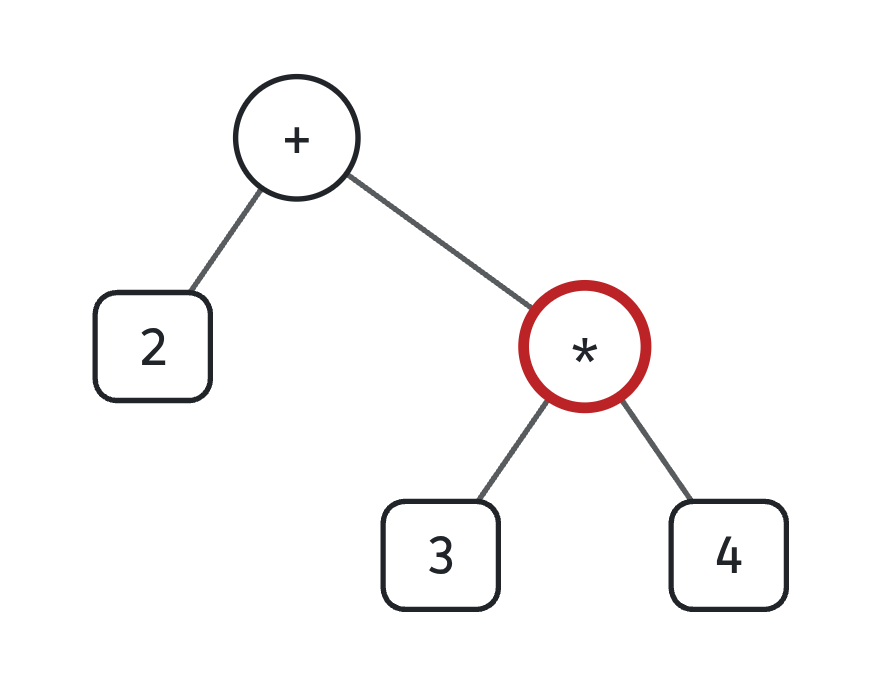
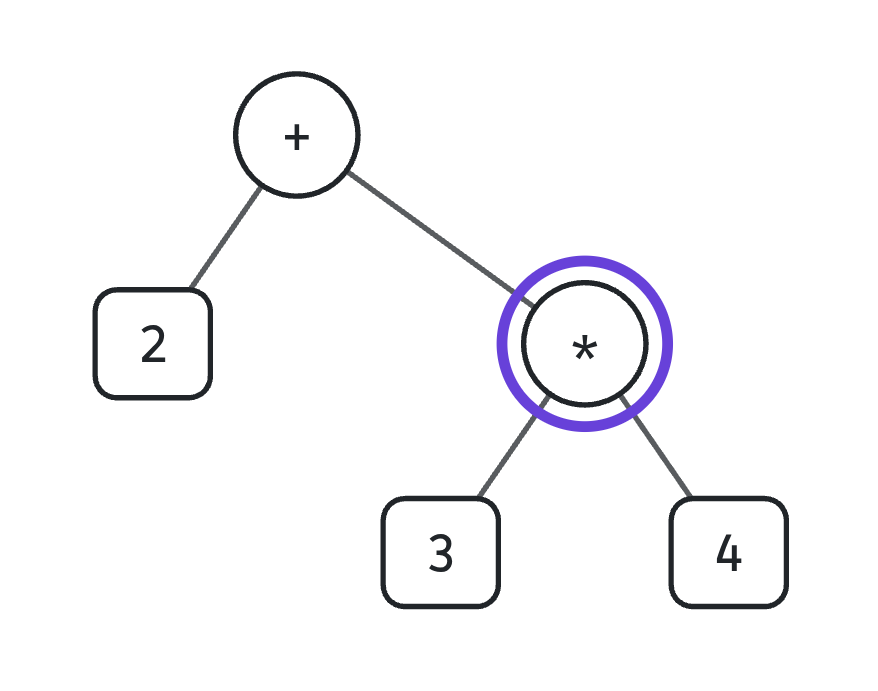
Calculator on the shared motion layer: the computed node's numbers rise into it and merge, its round box turns into the result's box, back they come out again; the purple ring for the next node, the tree picture rendered again. Motion: a short arrow does not bend (the head of an index arrow no longe

diff --git a/src/static/include/stepper_motion.js b/src/static/include/stepper_motion.js
@@ -164,7 +164,8 @@
             for (const node of old.values()) {
                 if (kept.has(node)) continue;
                 const to = node.dataset.to && goal.get(node.dataset.to);
-                if (to) for (const [name, value] of Object.entries(to)) if (node.hasAttribute(name) && name !== 'opacity') move(node, name, node.getAttribute(name), value);
+                // only what can move: it keeps its own key and class
+                if (to) for (const [name, value] of Object.entries(to)) if (node.hasAttribute(name) && name !== 'opacity' && movable(name)) move(node, name, node.getAttribute(name), value);
                 // data-merge: it goes into the element it moves to, which
                 // covers it; it does not fade (two half-transparent shapes on
                 // top of each other), it is removed at the end
@@ -231,7 +232,10 @@
             // view) stays straight
             r.start = r.start || { base, tip };
             const apart = Math.hypot(base[0] - r.start.base[0] - (tip[0] - r.start.tip[0]), base[1] - r.start.base[1] - (tip[1] - r.start.tip[1]));
-            const k = Math.min(1, apart / 24);
+            // and only as far as the line is long: a short arrow (an index
+            // under its column) has no room for a bend, its head would tilt
+            const length = Math.hypot(tip[0] - base[0], tip[1] - base[1]);
+            const k = Math.min(1, apart / 24) * Math.min(1, Math.max(0, (length - 40) / 80));
             const bend = last ? mid : [mid[0] + (earlier.mid[0] - mid[0]) * k, mid[1] + (earlier.mid[1] - mid[1]) * k];
             // data-inset: the line stops that far before its end (an arrowhead
             // on the border of a node), and is hidden while shorter than that
@@ -301,6 +305,7 @@
                     snap = part(u, 0.8, 1);
                 } else if (kind === 'cut') {
                     const target = centre(from[1]);
+                    if (!target) continue;
                     tip = u < 0.15 ? toward(base, target, 1 - (1 - NEAR) * out(part(u, 0, 0.15))) : toward(base, target, NEAR * (1 - part(u, 0.15, 0.75) ** 2));
                 } else if (kind === 'swing') {
                     const before = centre(from[1]);
@@ -344,6 +349,7 @@
                 const c = centre(node.dataset.follow);
                 if (!c) continue;
                 if (node.hasAttribute('cx')) { node.setAttribute('cx', round(c[0])); node.setAttribute('cy', round(c[1])); }
+                else if (node.tagName === 'text') { node.setAttribute('x', round(c[0])); node.setAttribute('y', round(c[1])); }
             }
             attach(Math.min(1, t), now);
             for (const node of pulses) {

diff --git a/src/content/calculator/calculator.md b/src/content/calculator/calculator.md
@@ -43,21 +43,28 @@ requires: [automata]
         display: block;
         margin: 0 auto;
     }
-    .calc-tree line {
+    .calc-stepper {
+        --calc-accent: #6741d9;
+    }
+    html[data-bs-theme="dark"] .calc-stepper {
+        --calc-accent: #b197fc;
+    }
+    .calc-tree path.edge {
+        fill: none;
         stroke: var(--bs-secondary-color);
         stroke-width: 1.5;
     }
-    .calc-tree .node circle, .calc-tree .node rect {
+    .calc-tree rect.op, .calc-tree rect.num {
         fill: var(--bs-body-bg);
         stroke: var(--bs-body-color);
         stroke-width: 1.5;
-        transition: stroke 0.3s;
     }
-    .calc-tree .node.pick circle {
-        stroke: #bc2326;
+    .calc-tree circle.pick {
+        fill: none;
+        stroke: var(--calc-accent);
         stroke-width: 3;
     }
-    .calc-tree .node.fresh rect {
+    .calc-tree rect.num.fresh {
         stroke: #2e9e5b;
         stroke-width: 3;
     }
@@ -110,7 +117,7 @@ sleep: 1
 crop-element: #calc-stepper .calc-tree svg
 variants: dark
 -->
-<img class='drawing' style='width: 18em' src='baum.webp' alt='Ein Baum: oben ein Kreis mit +, darunter links das Blatt 2 und rechts ein Kreis mit *, unter dem die Blätter 3 und 4 hängen. Der Kreis mit * ist rot umrandet.'>
+<img class='drawing' style='width: 18em' src='baum.webp' alt='Ein Baum: oben ein Kreis mit +, darunter links das Blatt 2 und rechts ein Kreis mit *, unter dem die Blätter 3 und 4 hängen. Der Kreis mit * ist lila umrandet.'>
 
 ## Einrichten
 
@@ -273,7 +280,7 @@ Den Ausdruck `2 + 3 * 4` schreibt der Rechner als Baum, in dem das, was zuerst g
 
 Jeder Knoten ist entweder eine Zahl, ein **Blatt**, oder eine Liste aus dem Rechenzeichen und den beiden Teilbäumen links und rechts. Ein Minus vor einer Zahl oder einer Klammer ist ein Vorzeichen mit nur einem Teilbaum: `-(1 + 2)` ist `["neg", ["+", 1, 2]]`. Klammern tauchen im Baum gar nicht mehr auf, sie stecken in seiner Form: `(2 + 3) * 4` ist `["*", ["+", 2, 3], 4]`.
 
-Probier es aus. Der Baum steht so, dass du den Ausdruck von links nach rechts lesen kannst. Mit den Pfeilen rechnest du ihn aus, einen Knoten nach dem anderen. Rot umrandet ist der Knoten, der als Nächstes drankommt: immer einer, unter dem nur noch Zahlen hängen.
+Probier es aus. Der Baum steht so, dass du den Ausdruck von links nach rechts lesen kannst. Mit den Pfeilen rechnest du ihn aus, einen Knoten nach dem anderen. Lila umrandet ist der Knoten, der als Nächstes drankommt: immer einer, unter dem nur noch Zahlen hängen.
 
 <div class='calc-stepper' id='calc-stepper' data-stepper>
 <input class='form-control' type='text' id='calc-input' value='2 + 3 * (4 - 1)' aria-label='Ausdruck für den Baum' spellcheck='false' maxlength='60'>
@@ -702,117 +709,84 @@ python3 -c 'import ast; print(ast.dump(ast.parse("2 + 3 * 4", mode="eval"), inde
     let current = 0;
     let svg = null;
 
-    // How far from its centre a node's outline is, in the direction ux, uy:
-    // a circle for an operator, a box for a number.
-    function reach(t, ux, uy) {
-        if (!isLeaf(t)) return 17;
-        const hw = width(t) / 2 - 4, hh = 15;
-        return Math.min(ux ? hw / Math.abs(ux) : Infinity, uy ? hh / Math.abs(uy) : Infinity);
-    }
-
-    // A picture of the tree: every node with its place and how visible it
-    // is, and the edges as pairs of ids.
-    function frameOf(tree) {
+    // One step drawn into an SVG that is never shown; the visible one moves
+    // to it (stepper_motion.js). An operator is a round box, a number a box,
+    // each keyed by its node, the edges lines from centre to centre under
+    // them. The node that comes next wears the purple ring, which glides
+    // from node to node; the number just computed has a green box.
+    const make = (tag, attrs, text) => {
+        const node = document.createElementNS(SVG, tag);
+        for (const [k, v] of Object.entries(attrs)) node.setAttribute(k, v);
+        if (text !== undefined) node.textContent = text;
+        return node;
+    };
+    function picture(tree, marks) {
+        const next = make('svg', {});
         const { pos } = layout(tree);
-        const nodes = new Map();
-        const edges = [];
-        (function walk(t) {
-            const p = pos.get(t.id);
-            nodes.set(t.id, { x: p.x, y: p.y, node: t, alpha: 1 });
+        (function edges(t) {
             if (isLeaf(t)) return;
-            t.kids.forEach((kid) => { edges.push([t.id, kid.id]); walk(kid); });
+            const p = pos.get(t.id);
+            t.kids.forEach((kid) => {
+                const q = pos.get(kid.id);
+                next.appendChild(make('path', { 'data-key': `edge-${t.id}-${kid.id}`, 'data-ends': `node-${t.id} node-${kid.id}`, class: 'edge', d: `M${p.x} ${p.y} L${q.x} ${q.y}` }));
+                edges(kid);
+            });
         })(tree);
-        return { nodes, edges };
-    }
-
-    function outline(t) {
-        if (!isLeaf(t)) return `<circle r='17'/>`;
-        const w = width(t);
-        return `<rect x='${-w / 2 + 4}' y='-15' width='${w - 8}' height='30' rx='6'/>`;
-    }
-
-    // Draws one frame whole: the edges from centre to centre, cut off where
-    // each shape ends, then the nodes over them.
-    function paint(frame, marks) {
-        const parts = [];
-        for (const [a, b] of frame.edges) {
-            const p = frame.nodes.get(a), q = frame.nodes.get(b);
-            if (!p || !q) continue;
-            const dx = q.x - p.x, dy = q.y - p.y, len = Math.hypot(dx, dy);
-            if (len < 1) continue;
-            const ux = dx / len, uy = dy / len;
-            const from = reach(p.node, ux, uy), to = reach(q.node, ux, uy);
-            if (from + to >= len) continue;
-            const f = (v) => v.toFixed(1);
-            parts.push(`<line x1='${f(p.x + ux * from)}' y1='${f(p.y + uy * from)}' x2='${f(q.x - ux * to)}' y2='${f(q.y - uy * to)}' opacity='${Math.min(p.alpha, q.alpha).toFixed(2)}'/>`);
-        }
-        frame.nodes.forEach((p, id) => {
-            const cls = ['node', marks.pick === id ? 'pick' : '', marks.fresh === id ? 'fresh' : ''].filter(Boolean).join(' ');
-            parts.push(`<g class='${cls}' transform='translate(${p.x.toFixed(1)} ${p.y.toFixed(1)})' opacity='${p.alpha.toFixed(2)}'>${outline(p.node)}<text>${label(p.node)}</text></g>`);
-        });
-        svg.innerHTML = parts.join('');
-    }
-
-    // From one picture to the next, the nodes glide to their new places and
-    // the edges go with them. What is computed away slides into the node it
-    // becomes and fades; going back, it comes out of that node again.
-    // Without motion (prefers-reduced-motion), the next picture just
-    // replaces the last.
-    const reduceMotion = window.matchMedia('(prefers-reduced-motion: reduce)');
-    const DURATION = 450;
-    let shown = null;
-    let animation = 0;
-
-    function parents(frame) {
-        const up = new Map();
-        frame.edges.forEach(([a, b]) => up.set(b, a));
-        return up;
-    }
-
-    // Where a node that only one of the two pictures has comes from or goes
-    // to: the nearest node above it that the other picture has.
-    function anchor(id, up, other) {
-        let k = up.get(id);
-        while (k !== undefined && !other.nodes.has(k)) k = up.get(k);
-        return k !== undefined ? other.nodes.get(k) : null;
-    }
-
-    function showFrame(target, marks) {
-        cancelAnimationFrame(animation);
-        const from = shown;
-        shown = target;
-        if (!from || reduceMotion.matches) { paint(target, marks); return; }
-        const upFrom = parents(from), upTo = parents(target);
-        const seen = new Set();
-        const edges = from.edges.concat(target.edges).filter(([a, b]) => !seen.has(a + '>' + b) && seen.add(a + '>' + b));
-        const begin = performance.now();
-        const frame = () => {
-            const t = Math.min(1, (performance.now() - begin) / DURATION);
-            const e = t < 0.5 ? 2 * t * t : 1 - Math.pow(-2 * t + 2, 2) / 2;
-            const nodes = new Map();
-            target.nodes.forEach((p, id) => {
-                const q = from.nodes.get(id) || anchor(id, upTo, from) || p;
-                const node = from.nodes.has(id) && e < 0.5 ? from.nodes.get(id).node : p.node;
-                nodes.set(id, { x: q.x + (p.x - q.x) * e, y: q.y + (p.y - q.y) * e, node, alpha: from.nodes.has(id) ? 1 : e });
-            });
-            from.nodes.forEach((q, id) => {
-                if (target.nodes.has(id)) return;
-                const p = anchor(id, upFrom, target) || q;
-                nodes.set(id, { x: q.x + (p.x - q.x) * e, y: q.y + (p.y - q.y) * e, node: q.node, alpha: 1 - e });
-            });
-            if (t < 1) {
-                paint({ nodes, edges }, {});
-                animation = requestAnimationFrame(frame);
-            } else {
-                paint(target, marks);
+        (function nodes(t) {
+            const p = pos.get(t.id);
+            if (isLeaf(t)) {
+                const w = width(t) - 8;
+                next.appendChild(make('rect', { 'data-key': `node-${t.id}`, 'data-grow': '', class: marks.fresh === t.id ? 'num fresh' : 'num', x: p.x - w / 2, y: p.y - 15, width: w, height: 30, rx: 6 }));
+                // a label that comes or goes sits on its box while it moves
+                next.appendChild(make('text', { 'data-key': `num-${t.id}`, 'data-grow': '', 'data-follow': `node-${t.id}`, x: p.x, y: p.y }, label(t)));
+                return;
             }
-        };
-        animation = requestAnimationFrame(frame);
+            // a round box: the same element as the number it becomes, so
+            // that the operator turns into its result
+            next.appendChild(make('rect', { 'data-key': `node-${t.id}`, 'data-grow': '', class: 'op', x: p.x - 17, y: p.y - 17, width: 34, height: 34, rx: 17 }));
+            next.appendChild(make('text', { 'data-key': `op-${t.id}`, 'data-grow': '', 'data-follow': `node-${t.id}`, x: p.x, y: p.y }, label(t)));
+            t.kids.forEach(nodes);
+        })(tree);
+        if (marks.pick !== null) {
+            const p = pos.get(marks.pick);
+            next.appendChild(make('circle', { 'data-key': 'pick', 'data-follow': `node-${marks.pick}`, class: 'pick', cx: p.x, cy: p.y, r: 23 }));
+        }
+        return next;
+    }
+
+    // From one step to the next: forward, the numbers under the node that is
+    // computed rise into it and merge into the result, which takes the
+    // operator's place; the edges shrink back into it. Back, the numbers
+    // come out of the result again. The rest glides to its new place.
+    let shownAt = null;
+    function showStep(index) {
+        const step = steps[index];
+        const next = picture(step.tree, { pick: step.pick ? step.pick.id : null, fresh: step.done ? step.done.pick.id : null });
+        const animate = shownAt !== null && Math.abs(index - shownAt) === 1;
+        for (const node of svg.querySelectorAll('[data-to]')) { node.removeAttribute('data-to'); node.removeAttribute('data-merge'); }
+        if (animate && index > shownAt && steps[shownAt].pick) {
+            const pick = steps[shownAt].pick;
+            for (const kid of pick.kids) {
+                const box = svg.querySelector(`[data-key="node-${kid.id}"]`);
+                const text = svg.querySelector(`[data-key="num-${kid.id}"]`);
+                if (box) { box.dataset.to = `node-${pick.id}`; box.dataset.merge = ''; }
+                if (text) { text.dataset.to = `num-${pick.id}`; text.dataset.merge = ''; }
+            }
+        }
+        if (animate && index < shownAt && step.pick) {
+            for (const kid of step.pick.kids) {
+                next.querySelector(`[data-key="node-${kid.id}"]`).dataset.from = `node-${step.pick.id}`;
+                next.querySelector(`[data-key="num-${kid.id}"]`).dataset.from = `num-${step.pick.id}`;
+            }
+        }
+        shownAt = index;
+        if (window.StepperMotion) window.StepperMotion.morph(svg, next, { duration: animate ? 550 : 0 });
+        else svg.replaceChildren(...next.childNodes);
     }
 
     function draw() {
         const step = steps[current];
-        showFrame(frameOf(step.tree), { pick: step.pick ? step.pick.id : null, fresh: step.done ? step.done.pick.id : null });
+        showStep(current);
 
         const parts = [];
         if (step.done) parts.push(`<code>${phrase(step.done.pick.op, step.done.values, step.done.value)}</code>.`);
@@ -835,8 +809,7 @@ python3 -c 'import ast; print(ast.dump(ast.parse("2 + 3 * 4", mode="eval"), inde
     }
 
     function refresh() {
-        cancelAnimationFrame(animation);
-        shown = null;
+        shownAt = null;   // a new expression: no motion from the old tree
         box.replaceChildren();
         try {
             steps = build(input.value);

diff --git a/docs/widgets.md b/docs/widgets.md
@@ -197,6 +197,14 @@ only to look nice.
   two it joins; it grows in with its weight first, its edges sprout and snap
   onto the two roots, then the lower tree rises to meet it. The two
   lightest trees wear the purple ring.
+- **The calculator** (`calculator.md`): an operator is a round box, a number
+  a box; when a node is computed, its numbers rise into it and merge, and
+  the round box turns into the result's box; back, they come out of it
+  again. The node that comes next wears the purple ring.
+- **A short arrow does not bend**: the rubber band of a moving arrow grows
+  with its length (none under 40 px), so the head of an index arrow never
+  tilts. A label that comes or goes follows its node (`data-follow` on a
+  text), and what merges into an element keeps its own key.
 - **What grows comes first**: in a step that also sprouts a pointer, an
   element that grows in does so at the start (`early` in
   `stepper_motion.js`), so that its pointers sprout from something.
